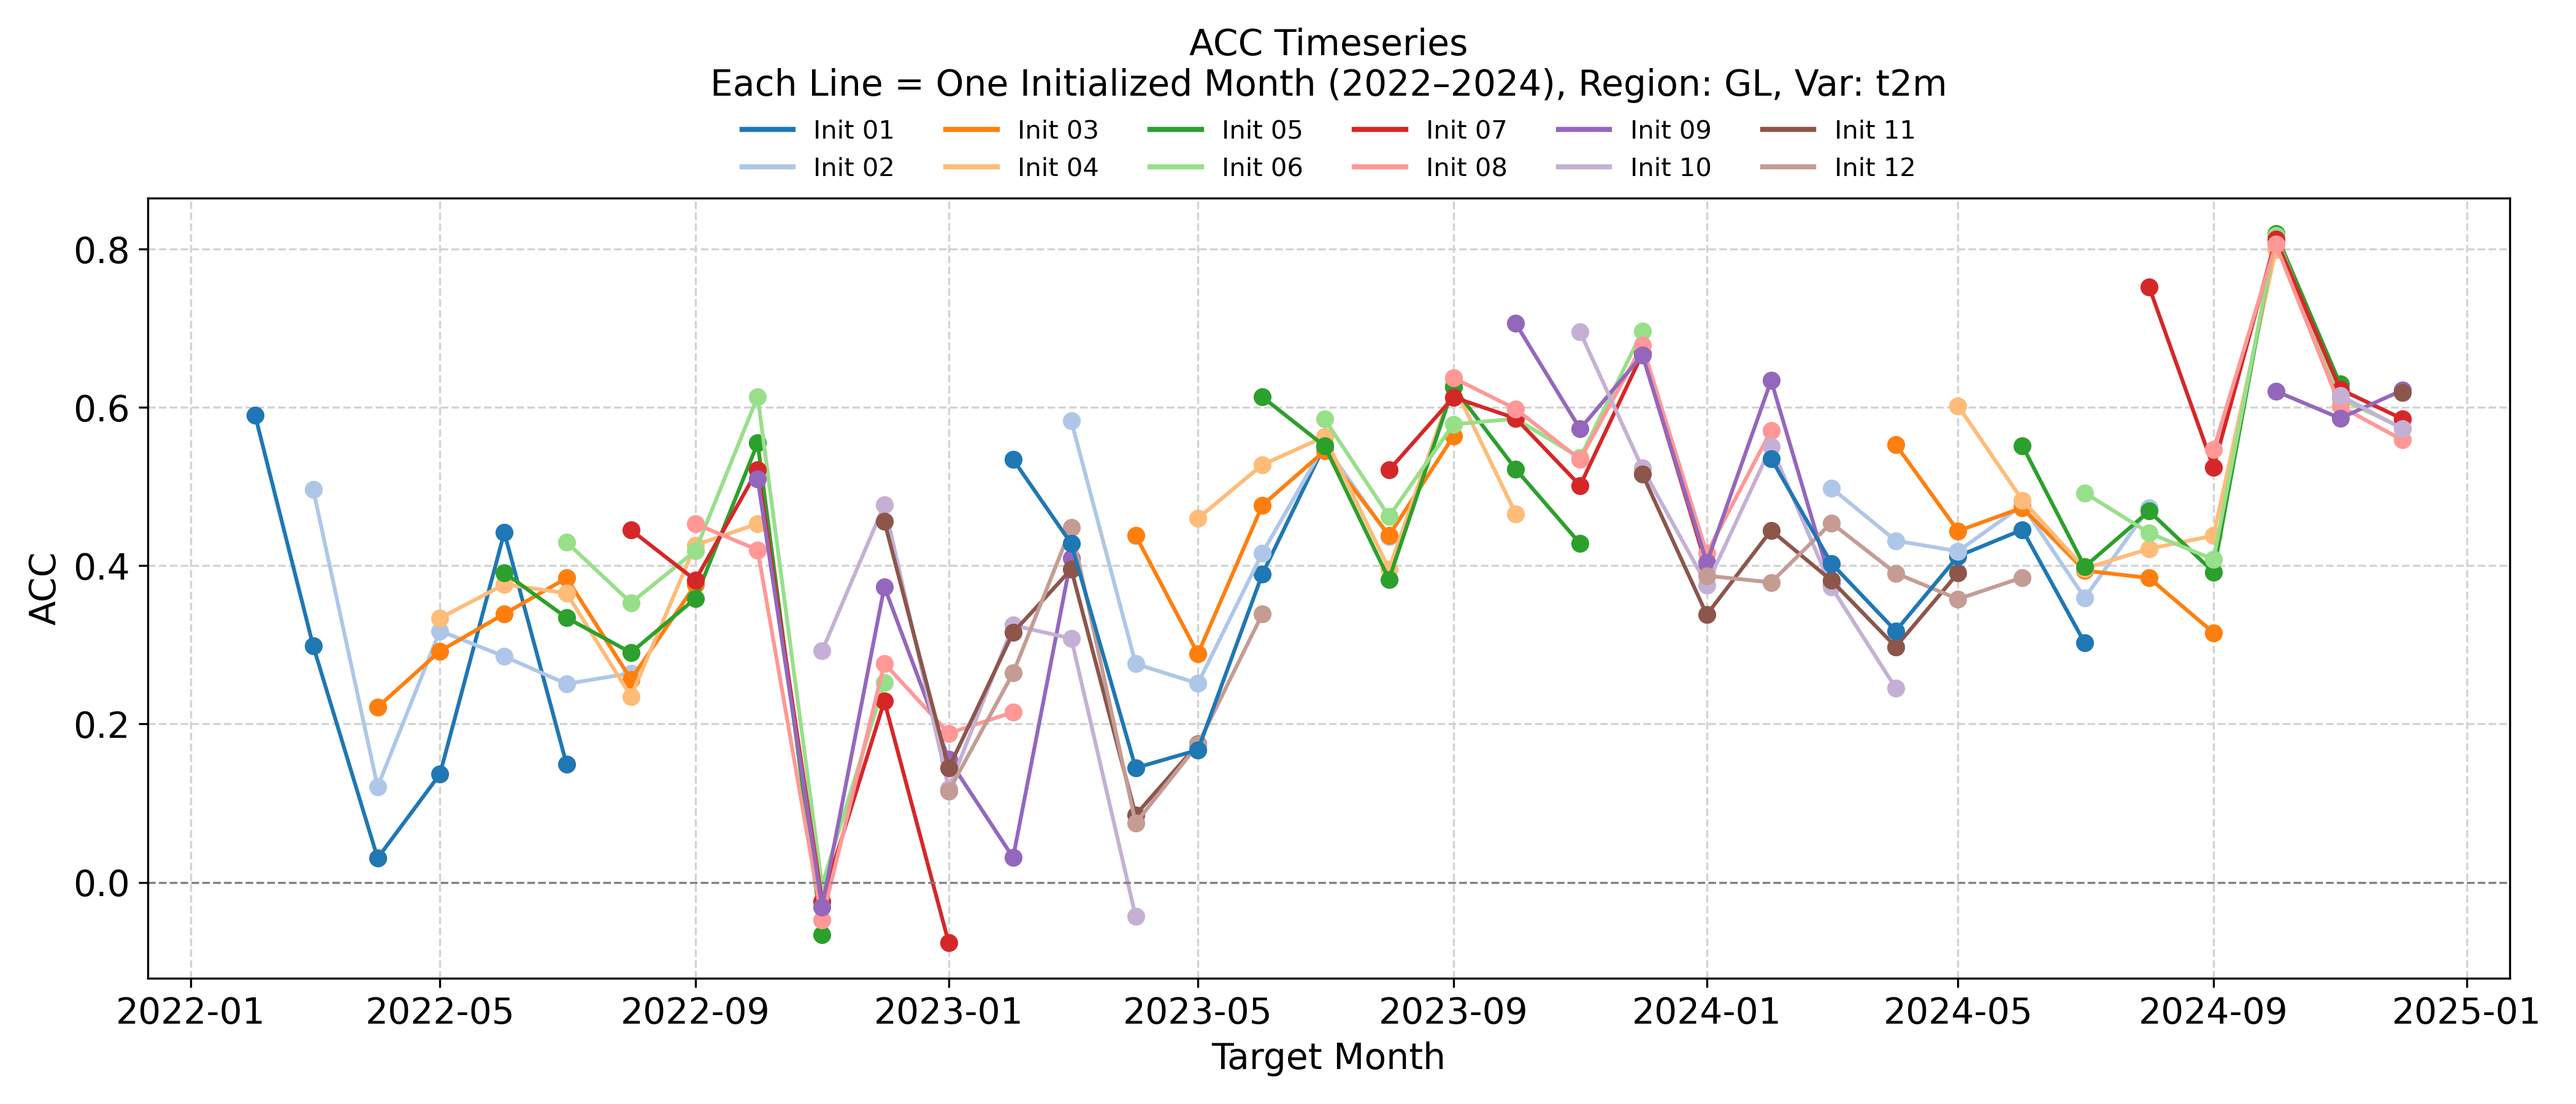
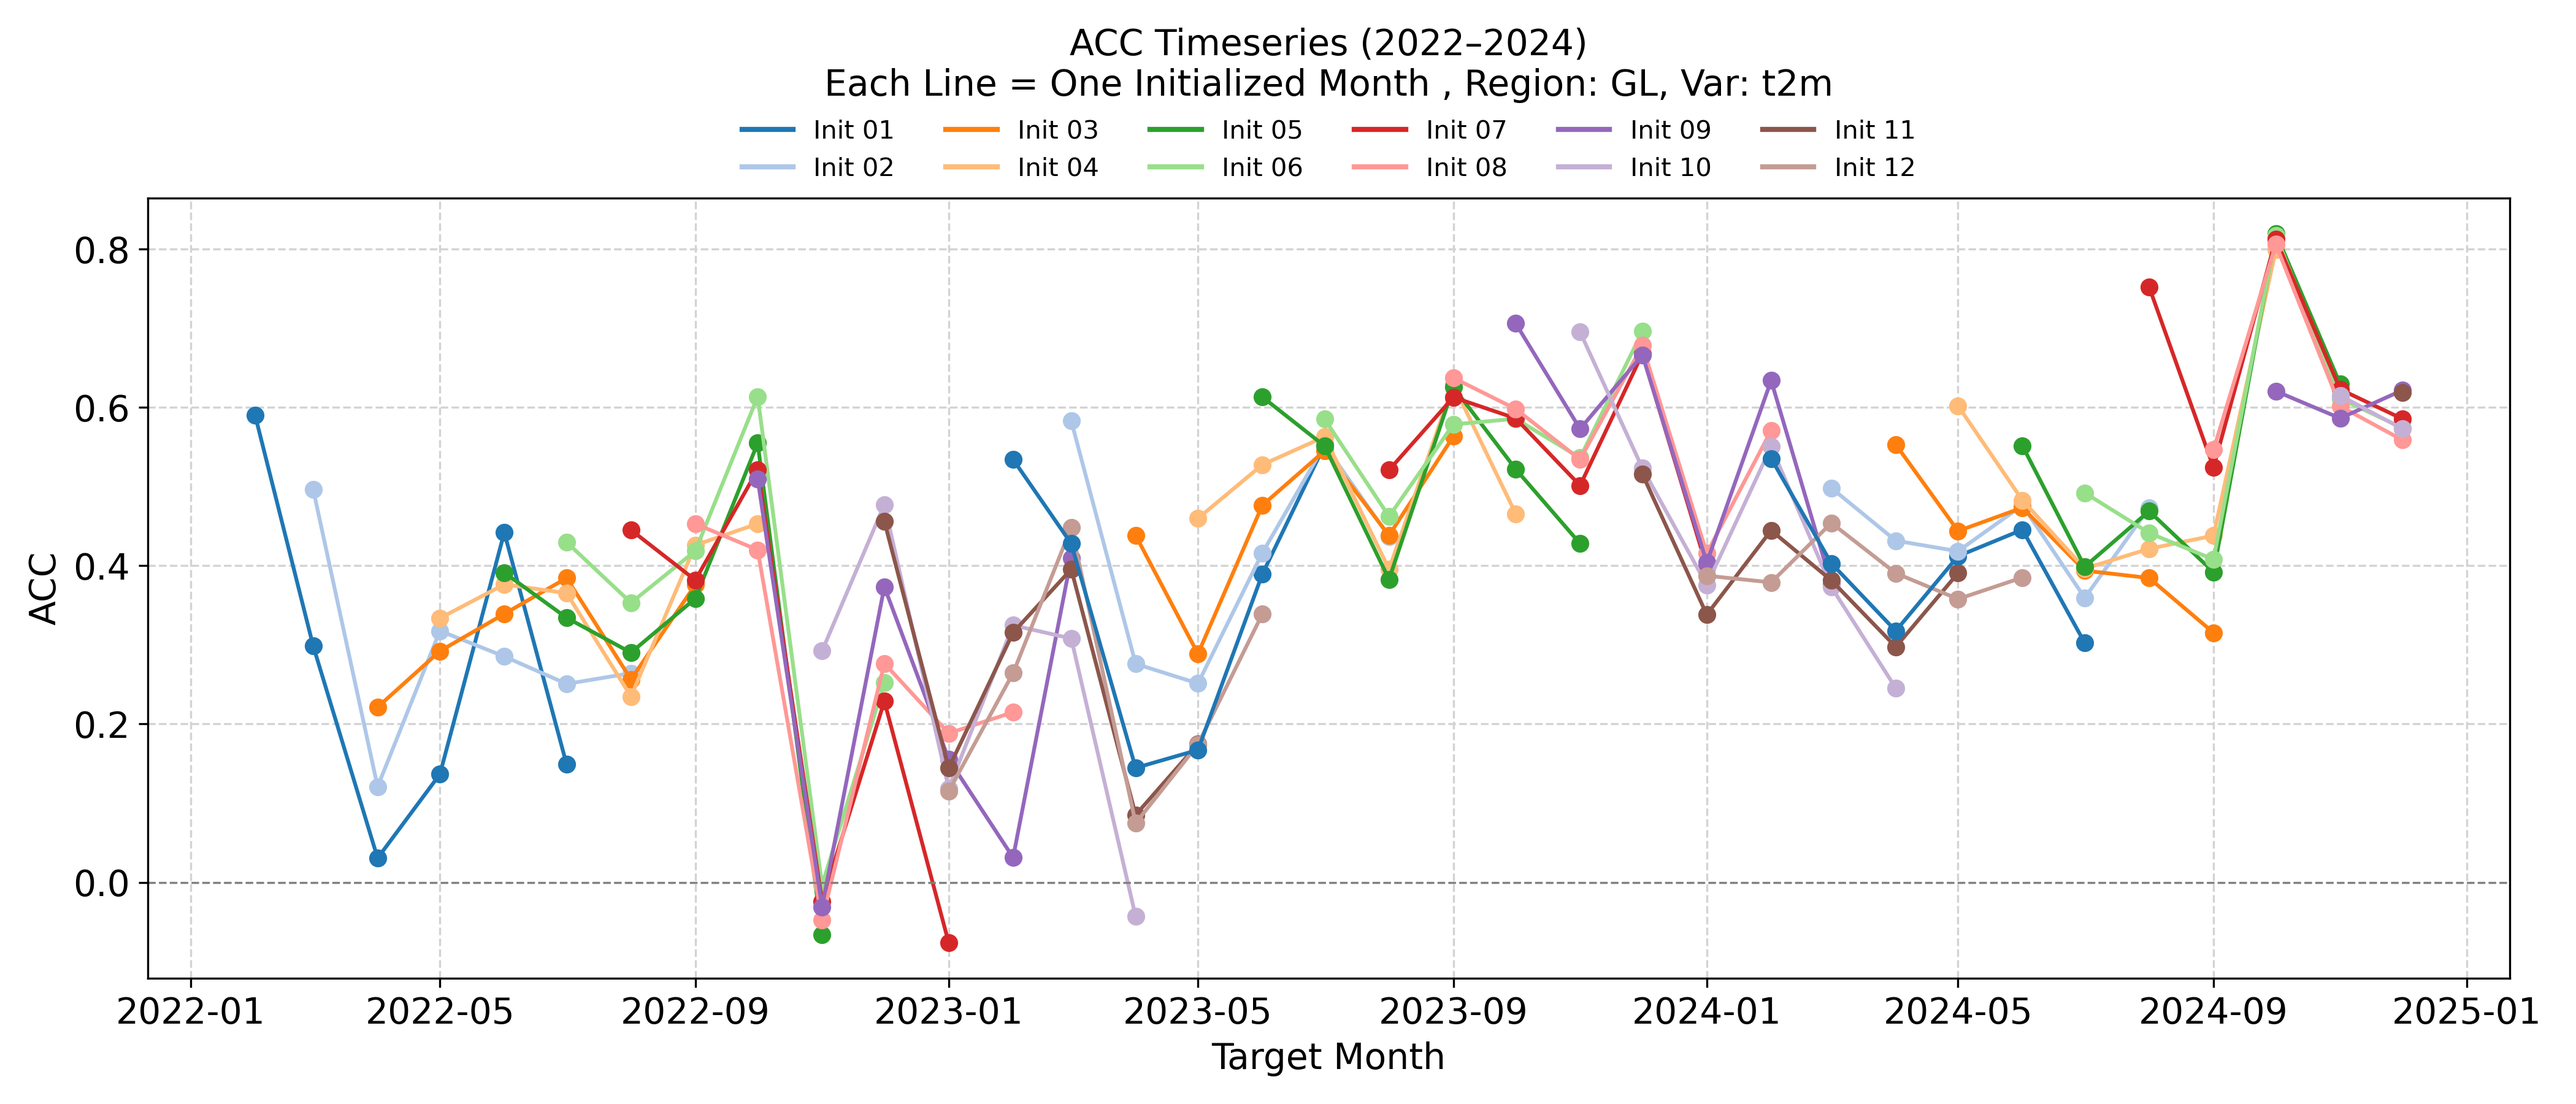
update figure

Changed region(s): [[0.2807, 0.0311, 0.7486, 0.0933]]

diff --git a/fcstverif/src/plotting/plotDetermSkillScore.py b/fcstverif/src/plotting/plotDetermSkillScore.py
@@ -450,7 +450,7 @@ def plot_trajectory_w_acc_by_initialized_line(var: str, region: str, fig_dir: st
         ax2.tick_params(axis='y', labelsize=14)
 
     elif mode == 'skill':
-        ax1.set_title(f"ACC Timeseries\nEach Line = One Initialized Month ({year_start}–{year_end}), Region: {region}, Var: {var}", 
+        ax1.set_title(f"ACC Timeseries ({year_start}–{year_end})\nEach Line = One Initialized Month , Region: {region}, Var: {var}", 
                       fontsize=14, pad=40)
         ax1.axhline(0, linestyle="--", color="gray", lw=0.8)
     
